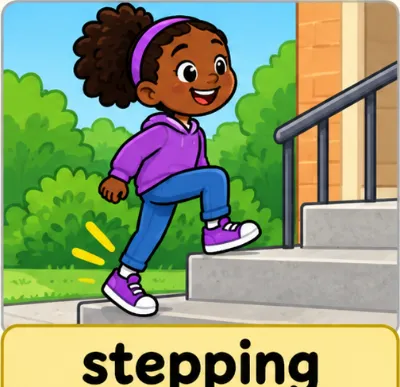
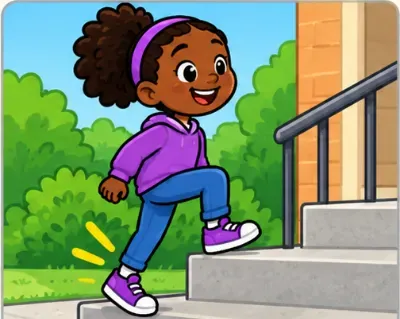
Fix confirmed findings from the 2026-11-13 production forensic audit
- 6-1 (t16): describe the 3+1+1 shape row by row ("The top row has 3 squares.
  The next two rows have 1 square each.").
- Lesson 7-1 grown-up note: Lessons 7-2 to 7-7 now save their own progress,
  so the note no longer says other lessons are not saved.
- js/views/lesson.js: remove the unreachable readinessReport() that still said
  "Lessons 7-2 to 7-7 are not saved."
- Number-line description (screen readers): list the tick marks one by one so
  the child counts; it no longer states "Each unit has N equal parts" and the
  point's interval count, which together gave the answer.
- Teacher vocabulary (Trustworthy, Irritating, Distracted): keep the teacher's
  words, labelled, and add the everyday meaning in the existing "In other
  words" box; quiz feedback uses it instead of the grown-up note.
- Nine labelled word cards whose printed word was cut off at the bottom edge
  (amazing, asking, crashing, lifting, opening, rushing, stepping, thinking,
  winking): crop the label band; the page prints the word.
- Withhold six word pictures from publishing (kept in the repository):
  extract, formed, inform, misinform, uninformed (replaced by the 2026-11-09
  spelling illustration) and fortunate.webp (the clover drawing shows instead).
- 2026-11-09 "Greater Than 1" worksheet: whole numbers 0, 1, 2 of the worked
  example moved to their own row so they no longer touch 3/3 and 6/3; stray
  double dash under the answer box removed. Answers unchanged.
[…]

diff --git a/tests/unit/site.test.js b/tests/unit/site.test.js
@@ -4,7 +4,7 @@ import assert from 'node:assert/strict';
 import fs from 'node:fs';
 import os from 'node:os';
 import path from 'node:path';
-import { FORBIDDEN, REPO, REQUIRED, buildSite, verifySite , RETIRED } from '../../scripts/build-site.js';
+import { FORBIDDEN, REPO, REQUIRED, buildSite, verifySite , RETIRED, WITHHELD } from '../../scripts/build-site.js';
 
 const made = [];
 const tmp = (name) => { const d = fs.mkdtempSync(path.join(os.tmpdir(), `ss-${name}-`)); made.push(d); return d; };
@@ -39,7 +39,8 @@ test('the built site passes verification', () => {
   // and the font licence note are left out.
   // Retired source kept only for its tests (Lesson 7-1 journey) is also left out.
   assert.deepEqual(skipped.sort(), [...repoFiles('images/words').filter((f) => f.endsWith('.png')), 'fonts/README.md']
-    .map((f) => `${f} (not on the allowlist)`).concat(RETIRED.map((f) => `${f} (retired: kept in the repository for its tests, not used by the site)`)).sort());
+    .map((f) => `${f} (not on the allowlist)`).concat(RETIRED.map((f) => `${f} (retired: kept in the repository for its tests, not used by the site)`))
+    .concat(WITHHELD.map((f) => `${f} (withheld: kept in the repository, not used by the site)`)).sort());
   assert.deepEqual([...copied].sort(), PUBLISHED);
 });
 
@@ -51,7 +52,7 @@ test('the built site is exactly the page, styles, modules, fonts, listed weeks, 
     // Reading Coach (D27): the library index and every story it lists.
     'data/reading/index.json', ...JSON.parse(fs.readFileSync(path.join(REPO, 'data/reading/index.json'), 'utf8')).stories.map((r) => `data/reading/${r.id}.json`),
     'data/practice/math.json', 'data/practice/math-words.json', 'data/practice/area.json', 'data/tests/index.json', ...JSON.parse(fs.readFileSync(path.join(REPO, 'data/tests/index.json'), 'utf8')).weeks.map((id) => `data/tests/${id}.json`),
-    ...repoFiles('images/words').filter((f) => /\.(svg|webp)$/.test(f)), ...repoFiles('fonts').filter((f) => f.endsWith('.woff2')),
+    ...repoFiles('images/words').filter((f) => /\.(svg|webp)$/.test(f) && !WITHHELD.includes(f)), ...repoFiles('fonts').filter((f) => f.endsWith('.woff2')),
     // Homework packets (D23): Study Scoop's own version of the week's homework and its printed PDF.
     'data/homework/index.json', ...JSON.parse(fs.readFileSync(path.join(REPO, 'data/homework/index.json'), 'utf8')).weeks.flatMap((id) => { const packet = JSON.parse(fs.readFileSync(path.join(REPO, `data/homework/${id}.json`), 'utf8')); return [`data/homework/${id}.json`, ...(packet.download ? [packet.download] : [])]; }),
     // Original newsletter flyers (D26): only the pages a listed week names in its privacy-reviewed "flyer".

diff --git a/js/views/lesson.js b/js/views/lesson.js
@@ -796,30 +796,9 @@ function keepFacts(text) {
   return String(text).split(/(\d+(?:\s*[×+=−-]\s*\d+)+)/).map((p, k) => (k % 2 ? html`<span class="term">${p}</span>` : p));
 }
 
-/** Lessons 7-2 to 7-7: a short readiness report from this visit (first Try It Yourself round and first test). */
-export function readinessReport(lesson, history, visited) {
-  const t = history?.firstTest, y = history?.firstTry;
-  const level = !t ? 'unfinished' : t.right >= t.pass ? 'ready' : t.right >= t.pass - 2 ? 'review' : 'notyet';
-  const verdict = {
-    unfinished: ['In progress.', `The report is complete after the Test. ${STAGES.filter((s) => s.id !== 'test').map((s) => `${s.label}: ${visited?.has(s.id) ? 'done' : 'not finished'}`).join('; ')}.`],
-    ready: ['Ready for the workbook.', `First test: ${t?.right} of ${t?.total}. Next, ask your child to do the school workbook page without help.`],
-    review: ['Almost ready.', `First test: ${t?.right} of ${t?.total}. Practice the questions below (Practice My Misses), then try the workbook page.`],
-    notyet: ['Not ready yet.', `First test: ${t?.right} of ${t?.total}. Go back to Watch Me and Practice Together with your child before the workbook page.`],
-  }[level];
-  const missed = (t?.missed || []).map((id) => lesson.test.items.find((it) => it.id === id)).filter(Boolean);
-  return html`<section class="card readiness" aria-labelledby="ready-h">
-    <h3 id="ready-h">Readiness report (this visit)</h3>
-    <p class="verdict ${level}"><strong>${verdict[0]}</strong> ${verdict[1]}</p>
-    ${y ? html`<p>Try It Yourself (You Do), first round: <strong>${y.own} of ${y.total}</strong> right on the first try with no help${y.helped ? `; ${y.helped} more right after another try or with help` : ''}.</p>` : ''}
-    ${missed.length ? html`<p>Missed on the first test:</p><ul>${missed.map((it) => html`<li>${it.prompt}</li>`)}</ul>` : ''}
-    <p class="hint">Answers shown by Help, and retakes after the answers were shown, never count as "on own". This report covers this visit only (Lessons 7-2 to 7-7 are not saved), and on-screen results are not proof of mastery: the workbook page done without help is the real check.</p>
-  </section>`;
-}
-
 export function parentGuide(ctx, lesson) {
   return html`
     <div class="stage-title"><h2 id="${skillJourney(lesson) ? 'parent-guide-h' : 'stage-h'}" tabindex="-1">Parent Guide</h2></div>
-    ${teachFirst(lesson) && !skillJourney(lesson) ? readinessReport(lesson, ctx.lessonState?.history, ctx.lessonVisited) : ''}
     <div class="card parent-guide">
       ${lesson.parent.sections.map((s) => html`<section><h3>${s.heading}</h3>
         ${s.text ? html`<p>${keepFacts(s.text)}</p>` : ''}

diff --git a/scripts/build-site.js b/scripts/build-site.js
@@ -46,6 +46,10 @@ const SOURCES = ['index.html', 'css', 'js', 'data', 'images', 'fonts', 'download
 export const REQUIRED = ['index.html', 'css/style.css', 'js/app.js', 'data/weeks.json', 'images/cone.svg'];
 /** Source kept for its audited tests but no longer used by any page (Lesson 7-1 journey replaced the Partition Lab). */
 export const RETIRED = ['js/lib/partition-reasoning.js'];
+/** Word pictures kept in the repository but not published (forensic audit 2026-11-13): the 2026-11-09 spelling
+ *  illustration replaces the first five, and fortunate.webp did not show the meaning clearly (the clover drawing,
+ *  images/words/fortunate.svg, is shown instead). Each is also left out of data/pictures.json "photos". */
+export const WITHHELD = ['extract', 'formed', 'fortunate', 'inform', 'misinform', 'uninformed'].map((w) => `images/words/${w}.webp`);
 /** Named so a check proves they are absent (the allowlist already excludes them). */
 export const FORBIDDEN = [
   'reference', 'reference/vocabulary-prototype.html', 'reference/spelling-test-prototype.html',
@@ -95,6 +99,7 @@ export function buildSite(out, src = REPO) {
     let why = null;
     if (!isAllowed(rel)) why = 'not on the allowlist';
     else if (RETIRED.includes(rel)) why = 'retired: kept in the repository for its tests, not used by the site';
+    else if (WITHHELD.includes(rel)) why = 'withheld: kept in the repository, not used by the site';
     else if (rel.startsWith('labs/') && !labs.has(rel)) why = 'not named by a published week';
     else if (/^data\/\d/.test(rel) && !listed.has(rel)) why = 'not listed in data/weeks.json';
     else if (/^data\/lessons\/(?!index\.json$)/.test(rel) && !lessons.has(rel)) why = 'not listed in data/lessons/index.json';
@@ -124,6 +129,7 @@ export function verifySite(dir) {
 
   for (const rel of files) if (!isAllowed(rel)) problems.push(`${rel} is not on the publishing allowlist`);
   for (const rel of FORBIDDEN) if (has(rel)) problems.push(`${rel} must not be published`);
+  for (const rel of WITHHELD) if (has(rel)) problems.push(`${rel} is withheld and must not be published`);
   for (const rel of REQUIRED) if (!has(rel)) problems.push(`${rel} is required but missing`);
   if (problems.length && !has('index.html')) return problems;
 

diff --git a/js/lib/fraction-models.js b/js/lib/fraction-models.js
@@ -2,7 +2,9 @@
 import { fractionModelProblems } from './fractions.js';
 export function describeFraction(m) {
   if (fractionModelProblems(m).length) return 'Invalid fraction diagram.';
-  if (m.kind === 'line') return `Number line from zero to ${m.max ?? 1}. Each unit has ${m.parts} equal ${m.parts === 1 ? 'interval' : 'intervals'}. A point is on tick ${m.point}, counting from zero. Whole-number ticks are labeled. A reference bracket from zero to one marks one whole.${m.counted?.length ? ' ' + m.counted.map((index, ordinal) => `Interval from tick ${index} to tick ${index + 1} has a bold stroke and count marker ${ordinal + 1}.`).join(' ') : ''}`;
+  // Number lines are described tick by tick, as a sighted child sees them, so a screen-reader user counts the
+  // spaces too: the description never states how many spaces there are or how far the point is (forensic audit 2026-11-13).
+  if (m.kind === 'line') return `Number line from zero to ${m.max ?? 1}, with equal spaces between tick marks. Tick marks from left to right: ${Array.from({ length: m.parts * (m.max ?? 1) + 1 }, (_, i) => `${i % m.parts === 0 ? `tick labeled ${i / m.parts}` : 'tick'}${i === m.point ? ' with the point' : ''}`).join(', ')}. A reference bracket from zero to one marks one whole.${m.counted?.length ? ' ' + m.counted.map((index, ordinal) => `Interval from tick ${index} to tick ${index + 1} has a bold stroke and count marker ${ordinal + 1}.`).join(' ') : ''}`;
   const count = (m.wholes ?? 1) * m.parts;
   const structure = m.kind === 'set' ? 'One whole collection of objects' : `${m.wholes ?? 1} same-sized whole ${m.kind === 'circle' ? 'circles' : 'bars'}, divided into parts`;
   return structure + (m.wholeLayout === 'grid' ? ', arranged in two columns and read left to right across each row' : '') + '. ' + Array.from({ length: count }, (_, i) => {

diff --git a/js/views/partition-journey.js b/js/views/partition-journey.js
@@ -473,7 +473,7 @@ export function journeySummary(ctx, state) {
     <p>On screen, lines join dots. On paper there are no dots. Before the workbook, ask your child to draw on blank shapes: a diamond, a square, a circle, an octagon and a hexagon. Watch for two things: lines that cross in the middle of the shape, and parts that look the same size. Then use the printed lesson as the final check, with no help.</p>
     <section class="j-reset" aria-labelledby="j-reset-h" data-j-reset-box>
       <h3 id="j-reset-h">Saved progress (for grown-ups)</h3>
-      <p>Lesson 7-1 progress is saved only in this browser on this device, so your child can stop and come back. It holds answers, drawings, written answers and the results above. It holds no name, and nothing is sent anywhere. Other Study Scoop pages are not saved. Erase it when another child will use this device, or to start Lesson 7-1 again.</p>
+      <p>Lesson 7-1 progress is saved only in this browser on this device, so your child can stop and come back. It holds answers, drawings, written answers and the results above. It holds no name, and nothing is sent anywhere. Lessons 7-2 to 7-7 save their own progress in this browser too (each has its own reset); other Study Scoop activities are not saved. Erase it when another child will use this device, or to start Lesson 7-1 again.</p>
       <div class="j-row" data-j-reset-ask><button type="button" class="btn" data-j-reset="ask">Reset Lesson 7-1 progress…</button></div>
       <div class="j-confirm" data-j-reset-confirm hidden>
         <p role="alert"><strong>Erase all Lesson 7-1 progress on this device?</strong> This cannot be undone.</p>

diff --git a/tests/unit/fractions.test.js b/tests/unit/fractions.test.js
@@ -35,7 +35,7 @@ test('authored equations use exact rational arithmetic and reject invalid denomi
 test('figures keep full improper fraction, whole circle and accessible observations without computed answers',()=>{
  const m=model(4,[0,1,2,3,4],2),html=modelFigure(m).s;assert.equal((html.match(/fill="#583084"/g)||[]).length,5);assert.ok(!html.includes('5/4'));
  const c=modelFigure({type:'fraction',kind:'circle',parts:1,wholes:1,selected:[0]}).s;assert.ok(c.includes('<circle'));assert.ok(!c.includes('NaN'));
- const line=modelFigure({type:'fraction',kind:'line',parts:4,max:3,point:9}).s;assert.ok(!line.includes('9/4'));assert.ok(line.includes('tick 9'));
+ const line=modelFigure({type:'fraction',kind:'line',parts:4,max:3,point:9}).s;assert.ok(!line.includes('9/4'));/* forensic audit 2026-11-13: ticks are listed one by one (the child counts), never 'tick 9' or 'Each unit has 4' */assert.ok(!/tick 9|Each unit has|9 intervals/.test(line));assert.equal((line.match(/\btick(?! marks)/g)||[]).length,13);assert.ok(line.includes('tick with the point'));assert.ok(['tick labeled 0','tick labeled 1','tick labeled 2','tick labeled 3'].every((t)=>line.includes(t)));
 });
 
 test('partition assessment descriptions provide width observations without the equality judgment',()=>{

diff --git a/js/views/activity.js b/js/views/activity.js
@@ -460,8 +460,9 @@ function studyCards(ctx, run) {
     <div class="card study-one">
       ${wordPicture(ctx, w.word, `Picture showing what "${w.word}" means`)}
       <div class="study-text">
-        <div class="instruct-head"><h3 class="vocab-word">${w.word}</h3>${readButton([w.word, `${w.word} means: ${w.def}`, w.sentence], 'this card')}</div>
+        <div class="instruct-head"><h3 class="vocab-word">${w.word}</h3>${readButton([w.word, `${w.word} means: ${w.def}`, ...(w.kid ? [`In other words: ${w.kid}`] : []), w.sentence], 'this card')}</div>
         <blockquote class="teacher-words"><span class="label">Teacher's words</span><span class="def">${w.def}</span></blockquote>
+        ${w.kid ? html`<p class="kid-words"><span class="label">In other words</span>${w.kid}</p>` : ''}
         ${w.note ? html`<p class="hint">Parent note: ${w.note}</p>` : ''}
         <p class="example"><span class="tag">In a sentence</span> ${w.sentence}</p>
       </div>

diff --git a/js/lib/activities.js b/js/lib/activities.js
@@ -170,7 +170,8 @@ export function blankSentence(sentence, word) {
 
 // ---------------------------------------------------------------- vocabulary
 
-const means = (w) => `${q(w.word)} means: ${w.def}.${w.note ? ` Parent note: ${w.note}` : ''}`;
+// The child sees the teacher's words and, where they are hard to read (forensic audit 2026-11-13), the everyday meaning.
+const means = (w) => `${q(w.word)} means: ${w.def}.${w.kid ? ` In other words: ${w.kid}` : ''}`;
 
 /**
  * The practice form of a vocabulary question: a hint that points back to the word's sentence (never the answer),

diff --git a/docs/weekly/2026-11-09/REVIEW.md b/docs/weekly/2026-11-09/REVIEW.md
@@ -8,5 +8,5 @@ Recorded during the 2026-11-12 text and accuracy audit (`docs/reviews/TEXT-AUDIT
 | images/flyers/2026-11-09-back.webp | Heading; the 12 vocabulary words and definitions; quiz line; the four Topic 7 math definitions | The heading in the owner-supplied clean image read **VOCAPULARY**. It was repaired to **VOCABULARY**: only the P was changed, using the letter's own bowl (pixels x 622–669, y 42–127). The final file was inspected again at 1× and at 4×. Definitions match the week file word for word. Teacher-source points, kept and reported: the "Winn Dixie" spelling has no hyphen; the denominator definition has no final period; the Distracted, Irritating and Trustworthy definitions do not fit the word's part of speech (each has a plain-words note in the week file). |
 | images/words/lab-spelling-2026-11-09.webp | Grid of 12 pictures, no words | Cell 7 ("formal") showed a knight in armor, which teaches the wrong meaning. It now shows the existing reviewed tuxedo picture (`images/words/formal.webp`). Inspected again after the change. |
 | images/words/lab-vocab-2026-11-09.webp | Grid of 12 pictures, no words | No stray text. Every cell matches its alt text. |
-| images/homework/2026-11-09-clean-greater-than-one.webp | Worked example labels | **Not corrected (owner-supplied recreation).** The whole-number labels 1 and 2 touch the 3/3 and 6/3 labels and can read like "¹3/3" or "6²/3". Reported for the owner. |
+| images/homework/2026-11-09-clean-greater-than-one.webp | Worked example labels | **Corrected 2026-11-13 (forensic audit, owner request).** The whole-number labels 1 and 2 touched the 3/3 and 6/3 labels and could read like "¹3/3" or "6²/3". The example row's whole numbers 0, 1 and 2 now sit on their own row above the line at their ticks (glyphs copied from line 3 of the same page), the fractions below are untouched, and the stray double dash under the example's 4 box was removed. Saved lossless; the answers 4/3, 6/4, 5/2, 8/5, 9/5 and 5/3 are unchanged. |
 | images/homework/2026-11-09-clean-*.webp (other three) | Passage, running counts, questions, number-line labels and boxes | Match `data/homework/2026-11-09.json`. |
